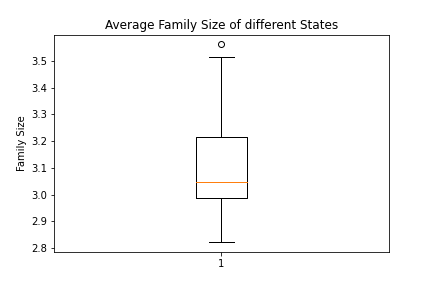
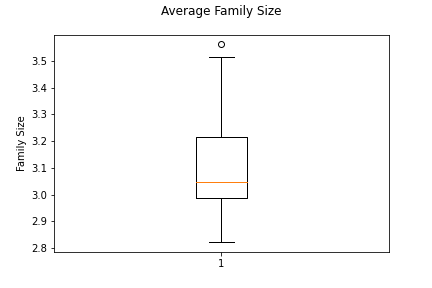
upate readme, change title on boxplots

Changed region(s): [[0.2407, 0.0, 0.7824, 0.125]]

diff --git a/README.md b/README.md
@@ -1,12 +1,17 @@
-# Does the size of a household impact ability to obtain higher education
+## Group project to analyze - Does the size of a household impact ability to obtain higher education
 
-# Hypothesis
+#Files of interest in this reposiory
+Team Dingo-2-2.pptx - powerpoint reviewed in class
+JupyterNotebooks\Edu_vs_Famv2.ipynb  - cleaned Jupyter notebook with calculations and charts used in powerpoint
+JupyterNotebooks\Merged.csv - final csv data file used in our final calcuations and charts
+Chart images are the .png files located in JupyterNotebooks folder
+
+# Null/Alternative Hypothesis
 Ho : The household size has no impact on the ability to obtain higher education
 HA: The household size does have impact on the ability to obtain higher education
 
 # Data Sources:
-Specifically American Community Survey (ACS) 2019 data tables
-We also looked a Kaggle data and Statista.  Kaggle didn't have what we were looking for and Statista required payment
+We looked a Kaggle and Statista website data.  Kaggle didn't have what we were looking for and Statista required payment
 In the end we found both household and education data in 2019 household census data
 Specifically we used the census American Community Survey (ACS) 2019 data tables
 
